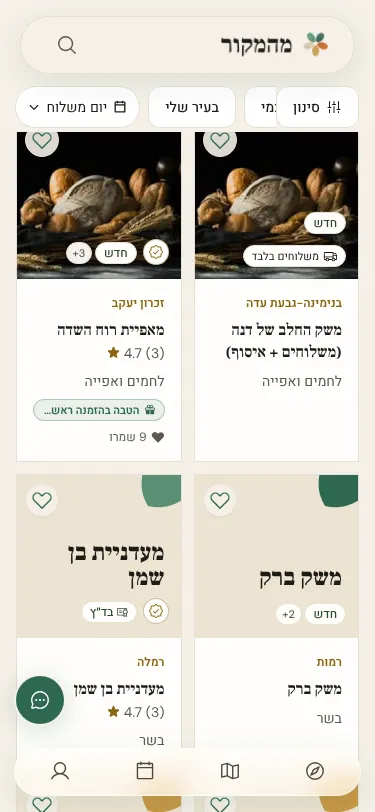
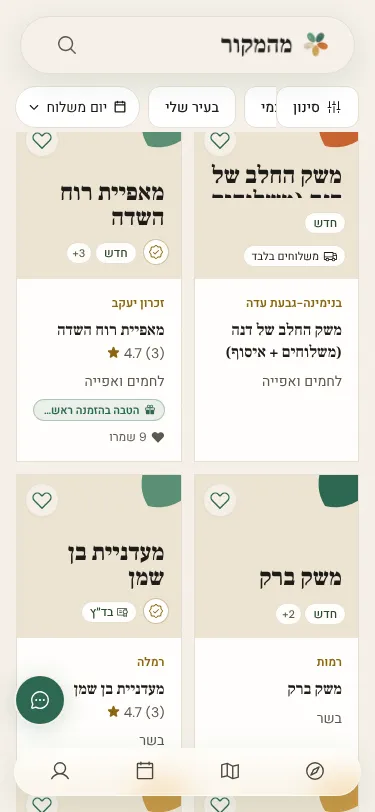
fix(producers): one rail in DOM order, no CSS reorder (MEH-3075)
VisualOrderGuard (MEH-2747) bans order-* utilities. The rail is now
«סינון» → categories → hairline → services in the DOM at every width:
the phone row matches /map, and at lg+ «סינון» + categories share line 1
while a basis-full break puts the service chips on line 2. Tab order equals
visual order everywhere. The category micro-label is screen-reader only.

Builder-Model: claude-opus-5-5

Claude-Session: https://claude.ai/code/session_01X8DSqVmovbBvtvjfW7R9BU

Changed region(s): [[0.0293, 0.1539, 0.968, 0.3695]]

diff --git a/frontend/components/ProducersClient.jsx b/frontend/components/ProducersClient.jsx
@@ -1053,32 +1053,6 @@ export default function ProducersClient({
         data-testid="producers-filter-row"
         onFocus={keepFocusedChipClear}
       >
-        {/* MEH-3075 (Sapir 13/11): below lg the categories ride the SAME rail as
-            «סינון» and the service chips — one row, «סינון», categories, then
-            משלוח/איסוף/city/day, the order /map's phone row uses (MEH-3062).
-            shrink-0 lets the outer rail do the scrolling. lg+ keeps two lines:
-            basis-full puts the block on its own line above the
-            filters, as before. The block comes FIRST in the DOM so the lg+ tab
-            order is unchanged (categories, then «סינון»); below lg the trigger's
-            wrapper takes max-lg:order-first to lead visually. The micro-label
-            stays for screen readers below lg. */}
-        {categories.length > 0 && (
-          <div className="shrink-0 lg:basis-full lg:min-w-0 lg:mb-1" data-testid="producers-category-row">
-            <p className="text-xs text-fg-muted mb-1 max-lg:sr-only" data-testid="producers-category-label">{t("filters.category_label")}</p>
-            <ChipScrollRow
-              variant="category"
-              chips={categoryChips}
-              activeKeys={activeCategoryKeys}
-              onChipClick={handleCategorySelect}
-              className="max-lg:-mb-1"
-            />
-          </div>
-        )}
-        {/* MEH-3075: the hairline /map's phone row draws between the categories
-            and the service chips (MEH-3062). Phone only — lg+ has two lines. */}
-        {categories.length > 0 && (
-          <span aria-hidden="true" className="shrink-0 self-stretch my-1.5 w-px bg-border lg:hidden" />
-        )}
         {/* Anchor wrapper — the sheet's lg+ panel positions off it (sticky is
             positioned, so it anchors like `relative`); -start-4/-ms-4/ps-4
             paint the gutter beside it so chips pass under it, as on home.
@@ -1086,7 +1060,7 @@ export default function ProducersClient({
             `relative`: a later positioned sibling would paint OVER the sticky
             trigger while the rail scrolls. lg:z-auto keeps the lg+ anchored sheet
             panel out of a z-10 stacking context, as it was before. */}
-        <div className="sticky z-10 -start-4 -ms-4 ps-4 shrink-0 bg-background max-lg:order-first lg:relative lg:z-auto lg:start-auto lg:ms-0 lg:ps-0">
+        <div className="sticky z-10 -start-4 -ms-4 ps-4 shrink-0 bg-background lg:relative lg:z-auto lg:start-auto lg:ms-0 lg:ps-0">
           <button
             type="button"
             onClick={() => setSheetOpen((v) => !v)}
@@ -1114,6 +1088,35 @@ export default function ProducersClient({
             align="start"
           />
         </div>
+        {/* MEH-3075 (Sapir 13/11): the categories ride the SAME rail as «סינון»
+            and the service chips — «סינון», categories, a hairline, then
+            משלוח/איסוף/city/day: /map's phone order (MEH-3062). This is the DOM
+            order at every width, because a CSS reorder is banned
+            (VisualOrderGuard, MEH-2747): below lg the rail scrolls (shrink-0),
+            at lg+ the block takes the rest of the first line and scrolls inside
+            itself if it ever overflows, and a line break sends the service chips
+            to a second line. The micro-label is for screen readers only. */}
+        {categories.length > 0 && (
+          <div className="shrink-0 lg:shrink lg:flex-1 lg:min-w-0" data-testid="producers-category-row">
+            <p className="sr-only" data-testid="producers-category-label">{t("filters.category_label")}</p>
+            <ChipScrollRow
+              variant="category"
+              chips={categoryChips}
+              activeKeys={activeCategoryKeys}
+              onChipClick={handleCategorySelect}
+              className="max-lg:-mb-1"
+            />
+          </div>
+        )}
+        {/* MEH-3075: the hairline /map's phone row draws between the categories
+            and the service chips (MEH-3062) — below lg; at lg+ the line break
+            after it starts the service chips' own line. */}
+        {categories.length > 0 && (
+          <span aria-hidden="true" className="shrink-0 self-stretch my-1.5 w-px bg-border lg:hidden" />
+        )}
+        {categories.length > 0 && (
+          <span aria-hidden="true" className="hidden lg:block lg:basis-full lg:h-0" data-testid="producers-filter-row-break" />
+        )}
         {/* MEH-2598 (Sapir 29/10, «אחיד»): the same promoted service trio as
             home and /map, between «סינון» and the city chip. `visibleChipDefs`
             is the gated list, so on_site appears only once the catalog

diff --git a/frontend/__tests__/ProducersFilterSheet.test.jsx b/frontend/__tests__/ProducersFilterSheet.test.jsx
@@ -343,8 +343,7 @@ describe("MEH-2569 — one filter row on /producers", () => {
 
   it("the trigger's wrapper is sticky below lg, so it stays put while the rail scrolls", () => {
     render(<ProducersClient {...props(items(3))} />);
-    // MEH-3075: the category block now precedes it in the DOM (lg+ tab order);
-    // the wrapper is the rail child that holds the trigger.
+    // MEH-3075: the wrapper is the rail child that holds the trigger.
     const lead = [...screen.getByTestId("producers-filter-row").children].find((c) => c.contains(TRIGGER()));
     expect(lead).toBeTruthy();
     expect(lead.className.split(/\s+/)).toContain("sticky");
@@ -420,25 +419,27 @@ describe("MEH-3075 — one sticky filter row on the phone, and a map link that k
     );
   };
 
-  it("puts the category chips INSIDE the filter rail: first in the DOM (lg+ tab order), «סינון» leads visually below lg", async () => {
+  it("puts the category chips INSIDE the filter rail, in /map's order «סינון» → categories → services, with no CSS reorder", async () => {
     await serveCategories();
     render(<ProducersClient {...props(withDairy(3))} />);
     const cats = await screen.findByTestId("producers-category-row");
     const rail = screen.getByTestId("producers-filter-row");
     expect(rail.contains(cats)).toBe(true);
     const follows = (a, b) => !!(a.compareDocumentPosition(b) & Node.DOCUMENT_POSITION_FOLLOWING);
-    // DOM: categories, then «סינון», then the service chips — the lg+ order.
-    expect(follows(cats, TRIGGER())).toBe(true);
-    expect(follows(TRIGGER(), screen.getByTestId("producers-promoted-chip-has_delivery"))).toBe(true);
-    // Below lg the trigger's wrapper is pulled to the front of the rail.
+    // DOM order IS the visual and tab order at every width (VisualOrderGuard).
+    expect(follows(TRIGGER(), cats)).toBe(true);
+    expect(follows(cats, screen.getByTestId("producers-promoted-chip-has_delivery"))).toBe(true);
     const lead = [...rail.children].find((c) => c.contains(TRIGGER()));
-    expect(lead.className.split(/\s+/)).toContain("max-lg:order-first");
-    // The rail scrolls, not the category block: shrink-0 below lg.
-    expect(cats.className.split(/\s+/)).toContain("shrink-0");
-    // lg+ keeps the categories on their own line above the filters.
-    expect(cats.className.split(/\s+/)).toContain("lg:basis-full");
-    // The micro-label stays for screen readers only below lg.
-    expect(screen.getByTestId("producers-category-label").className.split(/\s+/)).toContain("max-lg:sr-only");
+    expect(lead.className).not.toMatch(/order-/);
+    // The rail scrolls below lg (shrink-0); lg+ the block fills the first line.
+    const cc = cats.className.split(/\s+/);
+    expect(cc).toEqual(expect.arrayContaining(["shrink-0", "lg:flex-1", "lg:min-w-0"]));
+    // lg+ a full-basis break sends the service chips to their own line.
+    const brk = screen.getByTestId("producers-filter-row-break");
+    expect(brk.className.split(/\s+/)).toContain("lg:basis-full");
+    expect(follows(cats, brk) && follows(brk, screen.getByTestId("producers-promoted-chip-has_delivery"))).toBe(true);
+    // The micro-label is for screen readers only.
+    expect(screen.getByTestId("producers-category-label").className.split(/\s+/)).toContain("sr-only");
   });
 
   it("the bar holding the rail AND the day-panel host is sticky under the header below lg", () => {

diff --git a/frontend/e2e/flows/manual/producers.spec.ts b/frontend/e2e/flows/manual/producers.spec.ts
@@ -420,12 +420,12 @@ test.describe("manual › /producers hierarchy (MEH-1186)", () => {
     await expect(scope(page).getByTestId("producers-filters-button")).toContainText(P_HE.filters.filter_label);
     // Width parity: the form and the category row share the container's inline
     // extent — a narrower search box is exactly what MEH-1186 row 5 forbids.
-    // MEH-3075: below lg the categories ride the one scrolling filter rail (their
-    // block is as wide as its chips), so the chip line to match is the sticky
-    // filter bar's content box — it bleeds to the glass by its own px-4.
+    // MEH-3075: the categories now share the filter rail with «סינון» (the
+    // block is only as wide as its chips), so the chip line to match is the
+    // filter bar's content box — below lg it bleeds to the glass by its own px-4.
     const form = await box(scope(page).getByTestId("producers-search-form"));
     const desktop = (page.viewportSize()?.width ?? 0) >= 1024;
-    const row = await box(scope(page).getByTestId(desktop ? "producers-category-row" : "producers-filter-bar"));
+    const row = await box(scope(page).getByTestId("producers-filter-bar"));
     const rowWidth = desktop ? row.width : row.width - 32;
     expect(Math.abs(form.width - rowWidth), "search form width vs chip line width").toBeLessThanOrEqual(2);
 
